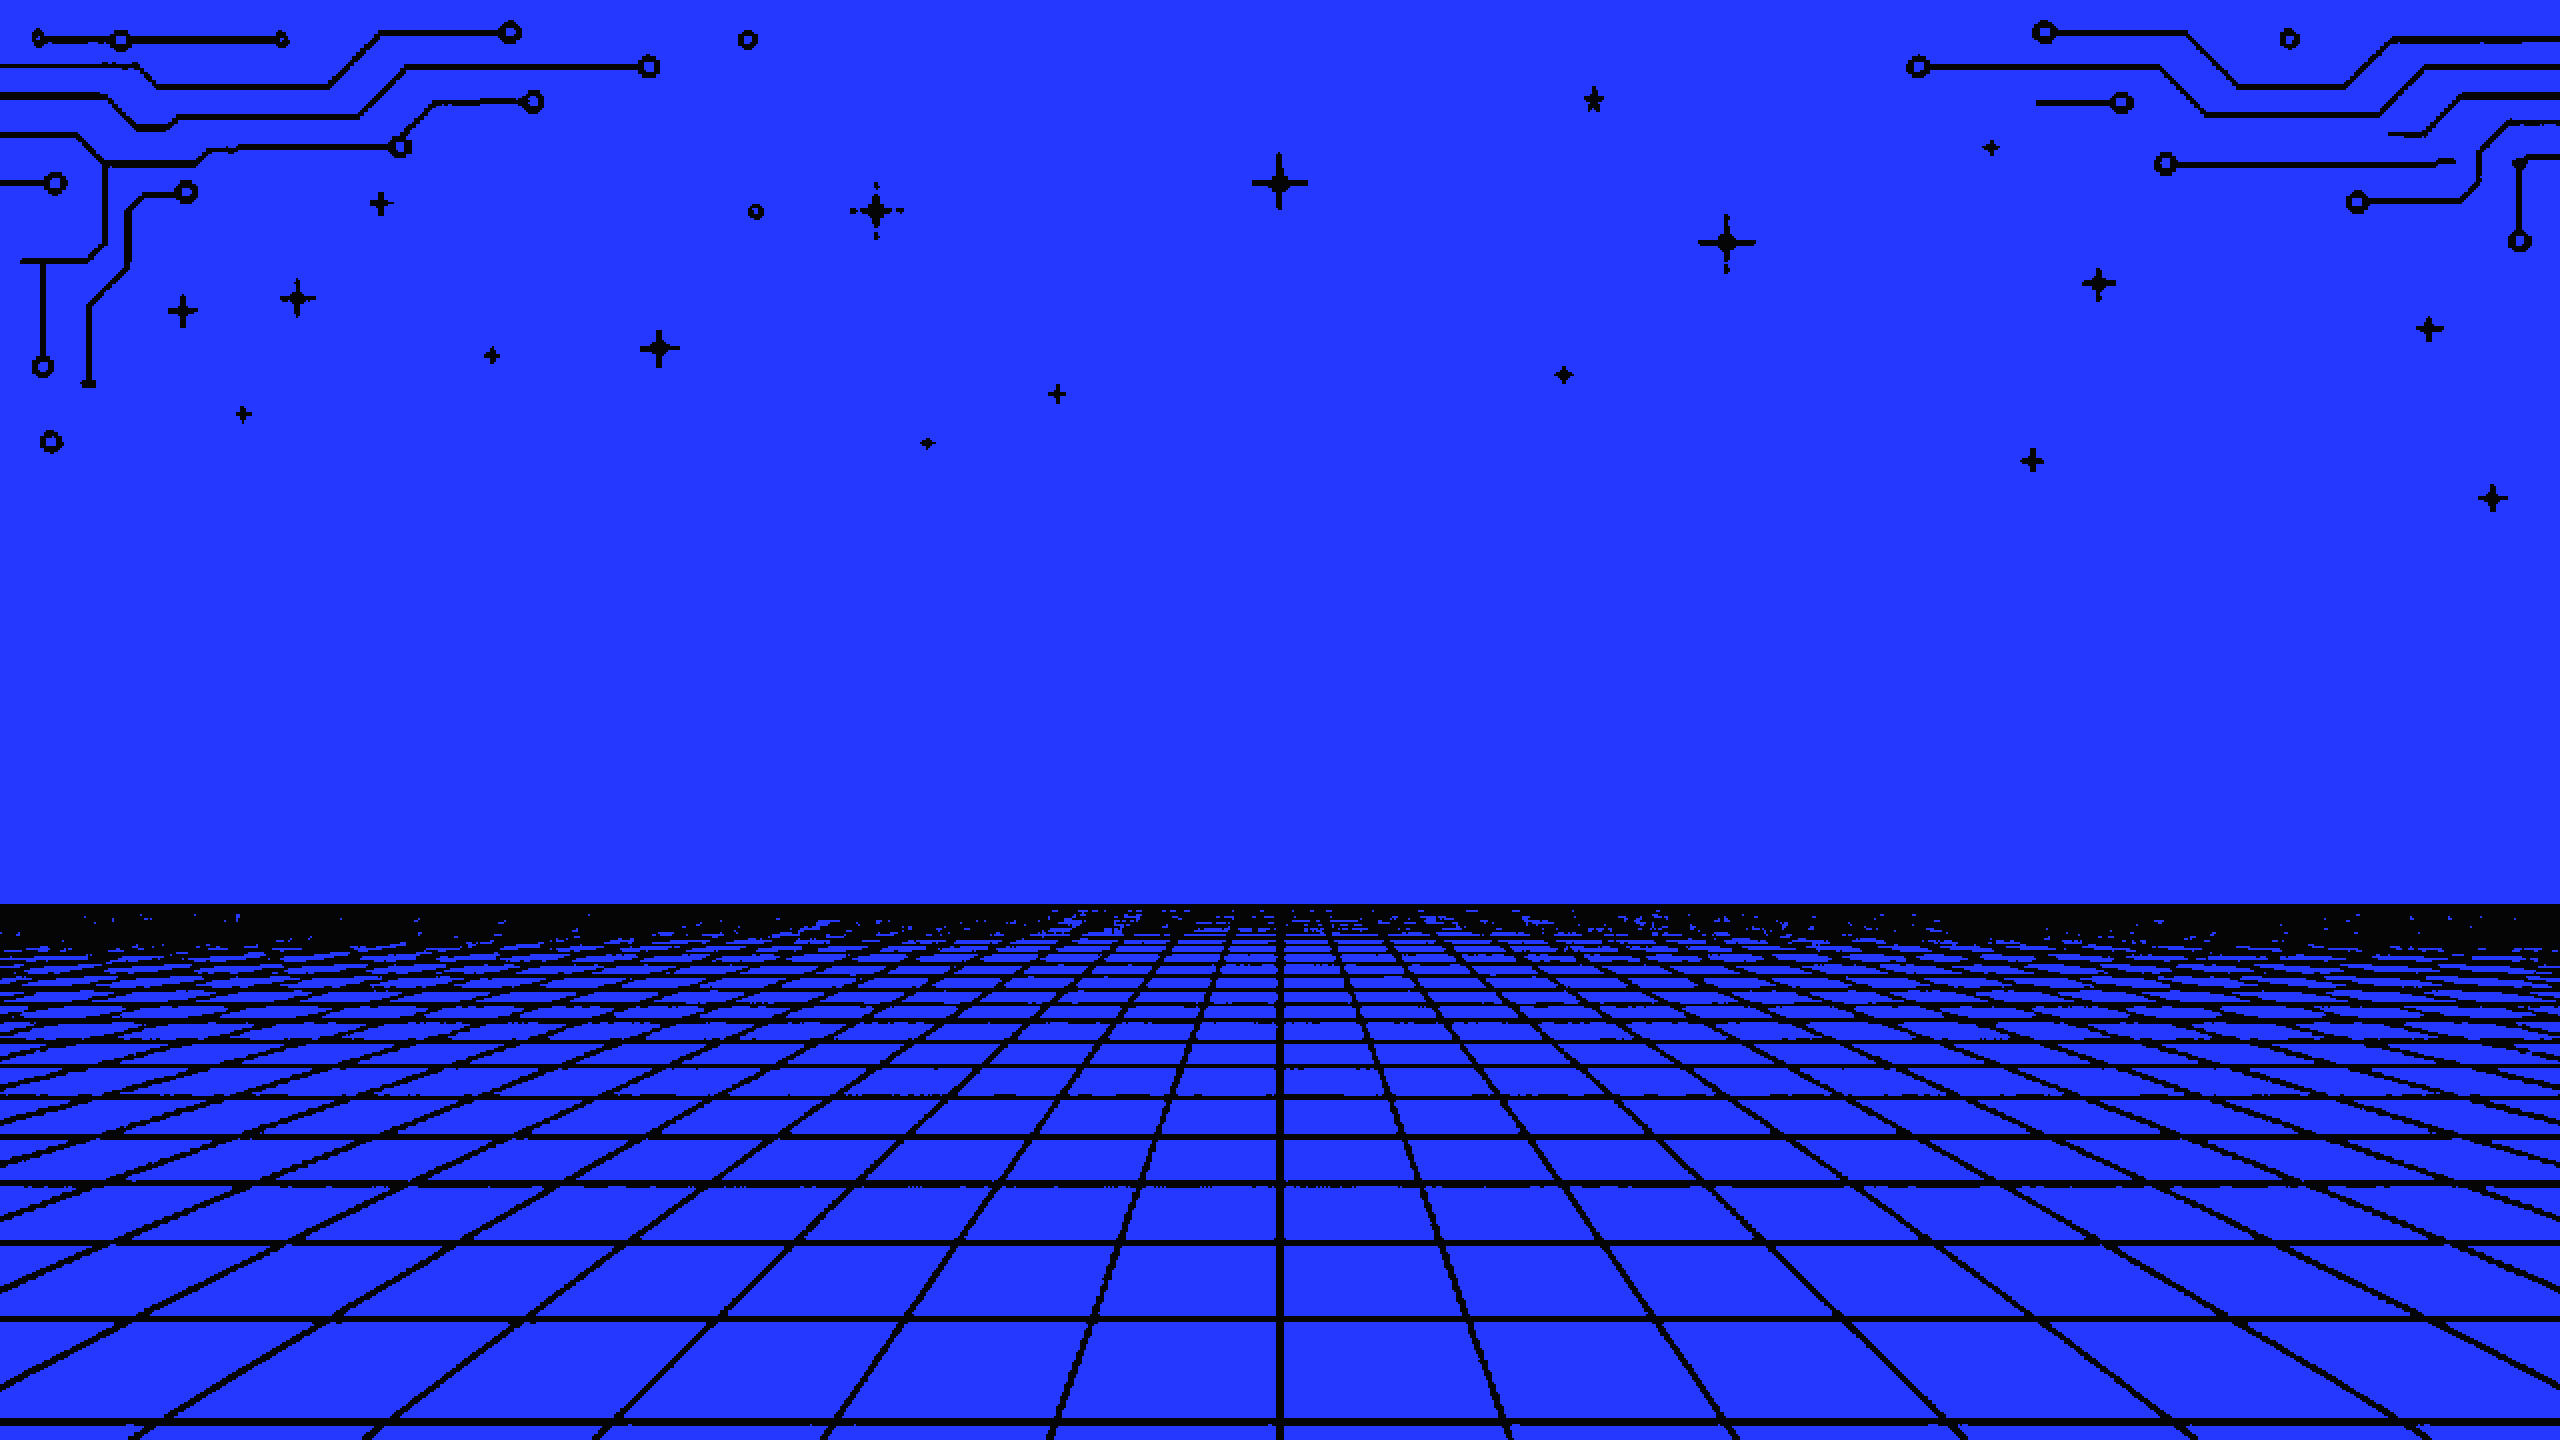
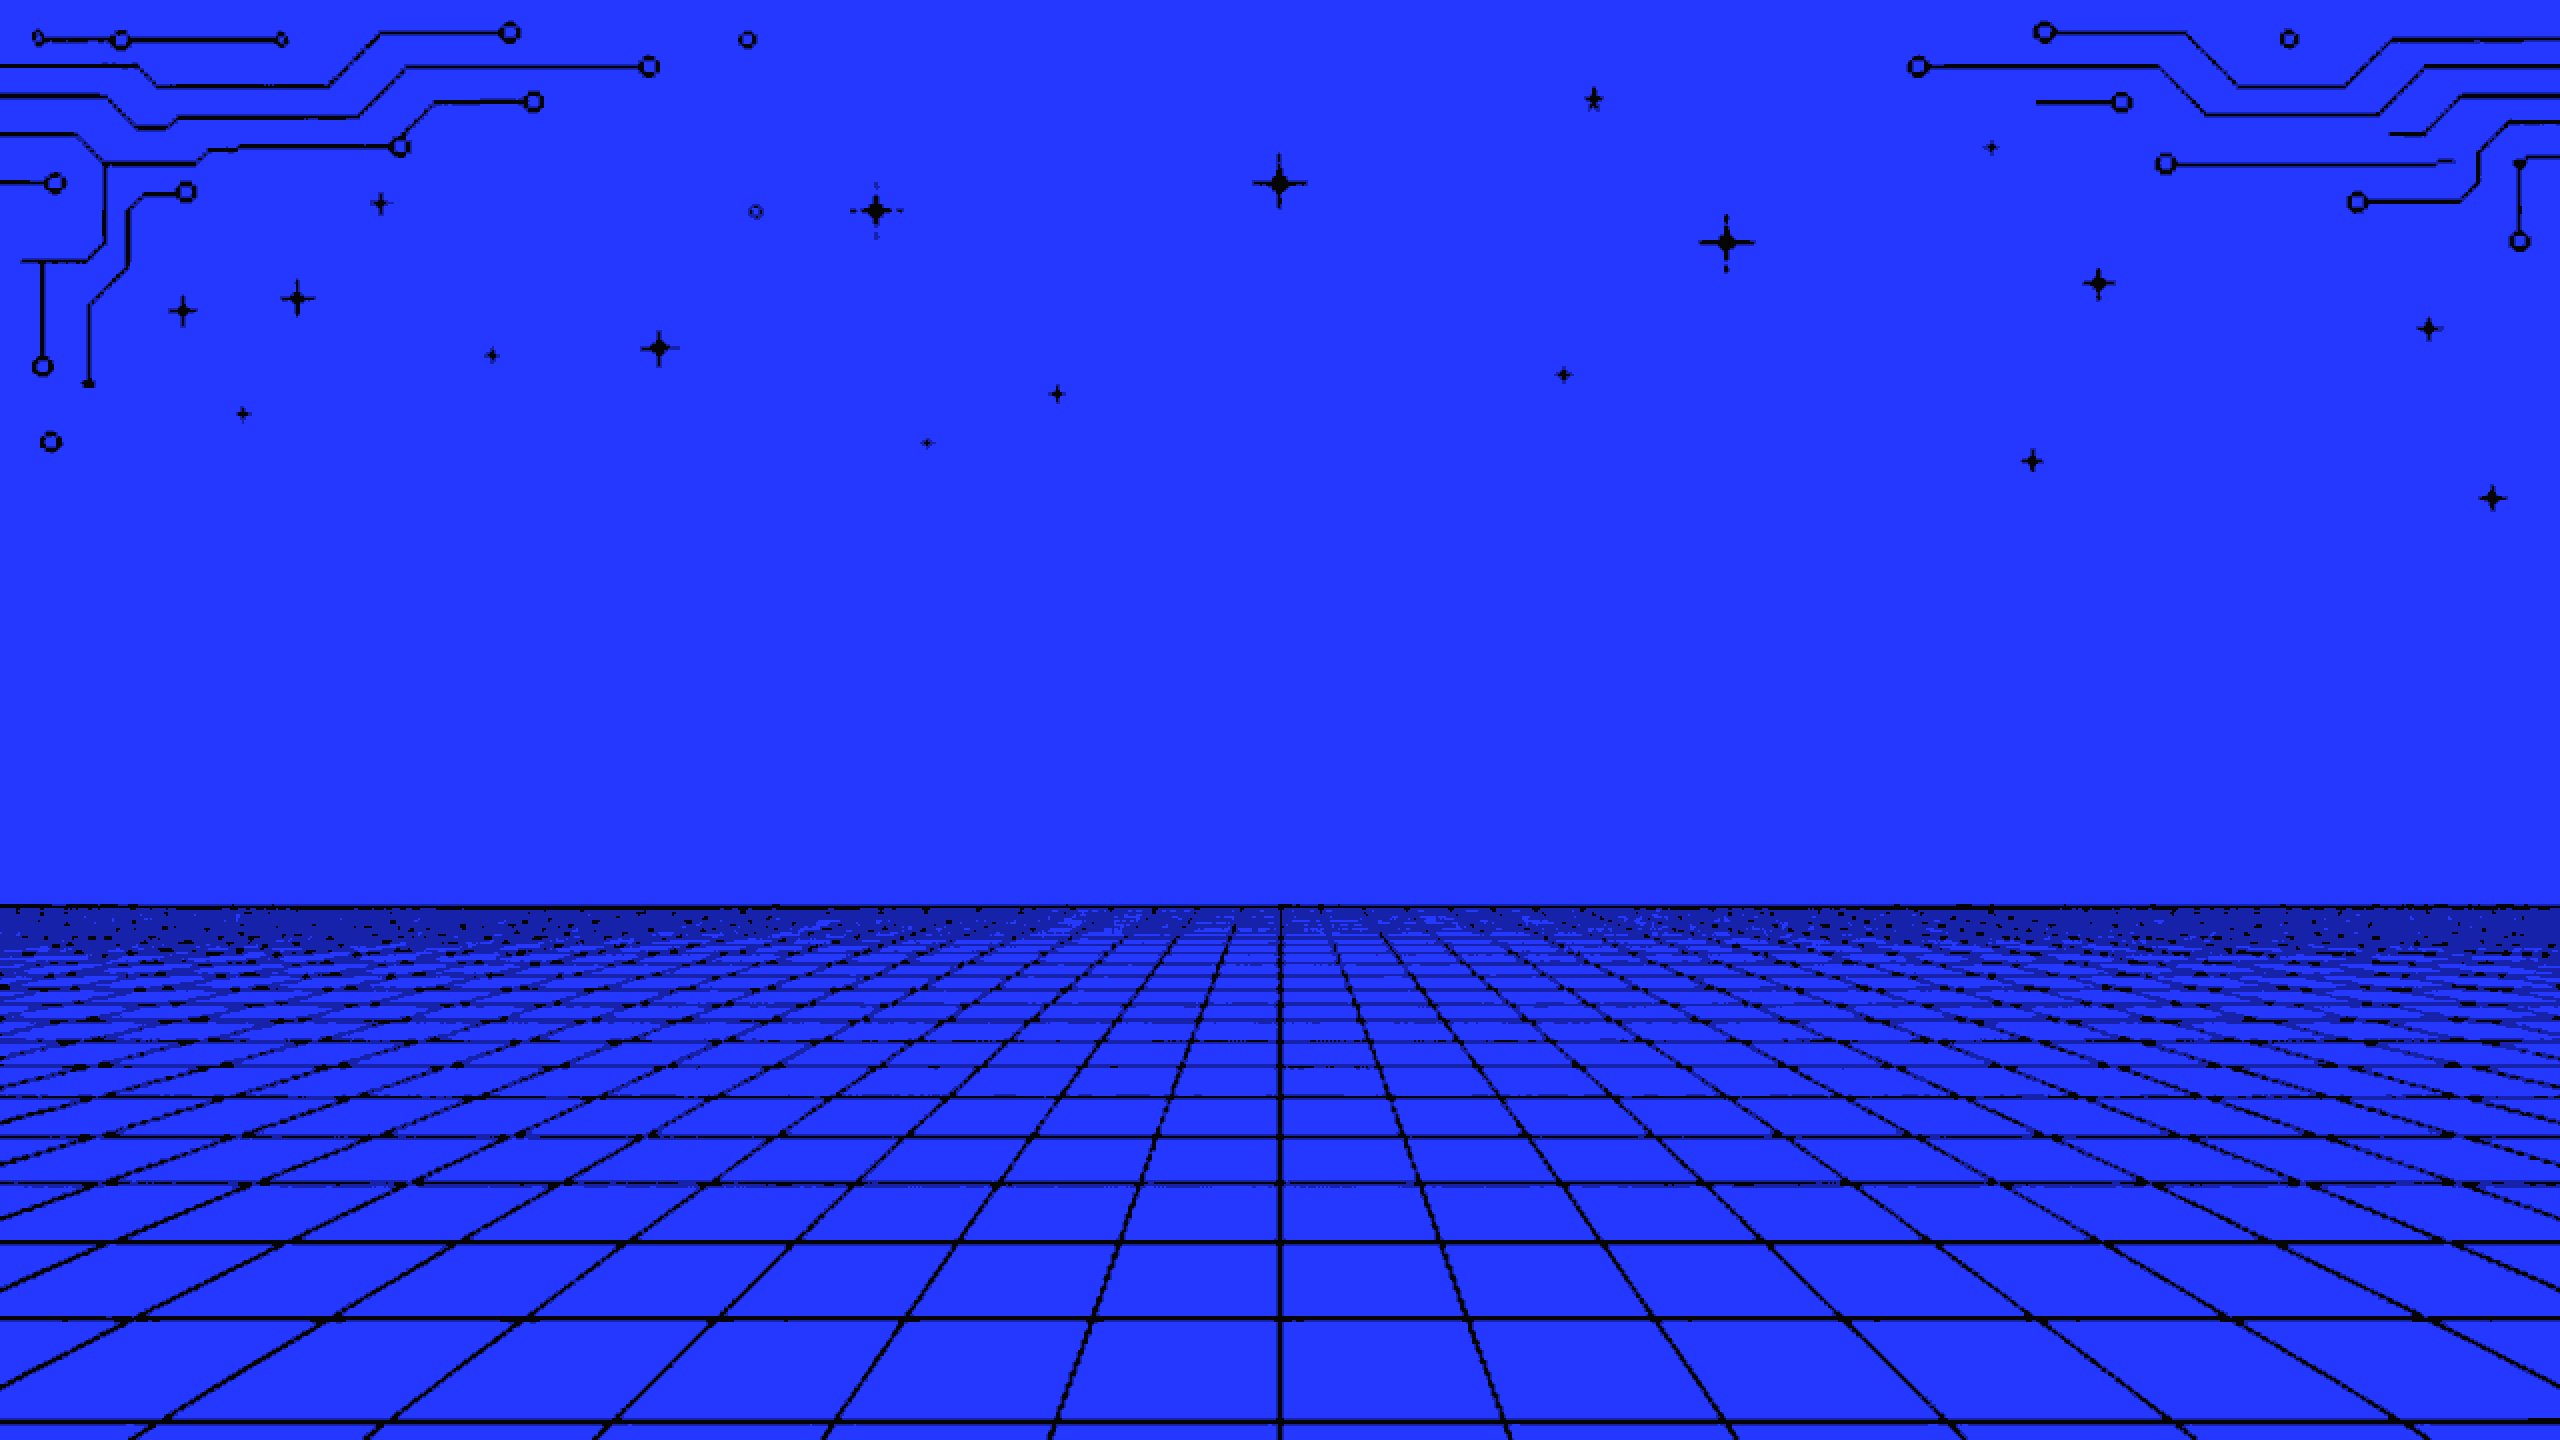
Arte: sprites pixel de objetos gamer y campos azules con matiz profundo

diff --git a/scripts/build-art-layers.py b/scripts/build-art-layers.py
@@ -26,6 +26,10 @@ OUT = ROOT / "public" / "art" / "cromo"
 BLUE = (36, 56, 255)
 BLACK = (5, 5, 6)
 RED = (255, 42, 31)
+# Secondary tones keep large art calm: deep red for shading/large masses, deep blue
+# for engraved mid-tones instead of hard black hairlines. Mirrors --gm-red-deep / --gm-blue-deep.
+RED_DEEP = (184, 35, 26)
+BLUE_DEEP = (22, 34, 170)
 
 # Nearest-neighbour 2x keeps every pixel in palette while letting browsers
 # downscale smoothly on standard screens and stay crisp on retina screens.
@@ -49,10 +53,13 @@ def classify(image: Image.Image, allow_red: bool, denoise: bool = True, blue_flo
 
 
 def paint(labels: np.ndarray) -> np.ndarray:
+    """0 = black, 1 = blue, 2 = red, 3 = deep red, 4 = deep blue."""
     out = np.zeros(labels.shape + (3,), dtype=np.uint8)
     out[labels == 0] = BLACK
     out[labels == 1] = BLUE
     out[labels == 2] = RED
+    out[labels == 3] = RED_DEEP
+    out[labels == 4] = BLUE_DEEP
     return out
 
 
@@ -93,7 +100,66 @@ def save(array: np.ndarray, name: str, scale: int = 1) -> None:
 
 def build_field(source: str, name: str) -> None:
     labels = classify(Image.open(SRC / source), allow_red=False, denoise=False, blue_floor=175)
+    rgb = np.asarray(Image.open(SRC / source).convert("RGB")).astype(np.int16)
+    r, b = rgb[..., 0], rgb[..., 2]
+    labels[(labels == 0) & (b > 110) & (b > r + 40)] = 4
     save(paint(labels), name, scale=UPSCALE)
+
+
+def largest_component(mask: np.ndarray) -> np.ndarray:
+    """Keep the biggest 8-connected region (drops slivers of neighbouring sprites)."""
+    joined = morph(mask, 5, grow=True)
+    seen = np.zeros_like(joined)
+    best: list[tuple[int, int]] = []
+    height, width = joined.shape
+    for y, x in zip(*np.nonzero(joined)):
+        if seen[y, x]:
+            continue
+        stack, region = [(y, x)], []
+        seen[y, x] = True
+        while stack:
+            cy, cx = stack.pop()
+            region.append((cy, cx))
+            for ny in (cy - 1, cy, cy + 1):
+                for nx in (cx - 1, cx, cx + 1):
+                    if 0 <= ny < height and 0 <= nx < width and joined[ny, nx] and not seen[ny, nx]:
+                        seen[ny, nx] = True
+                        stack.append((ny, nx))
+        if len(region) > len(best):
+            best = region
+    keep = np.zeros_like(joined)
+    ys, xs = zip(*best)
+    keep[list(ys), list(xs)] = True
+    return keep & mask
+
+
+def build_sprites(source: str, names: list[str | None], grid: int = 3) -> None:
+    """Cut a grid sprite sheet into isolated transparent objects (red, deep red, black)."""
+    image = Image.open(SRC / source).filter(ImageFilter.MedianFilter(3))
+    rgb = np.asarray(image.convert("RGB")).astype(np.int16)
+    r, g, b = rgb[..., 0], rgb[..., 1], rgb[..., 2]
+    labels = np.zeros(r.shape, dtype=np.uint8)
+    labels[(b > 120) & (b > r + 40)] = 1
+    labels[(r > 90) & (r > g + 50) & (r > b + 40)] = 3
+    labels[(r > 200) & (r > g + 80) & (r > b + 60)] = 2
+    solid = fill_holes(labels != 1)
+    height, width = labels.shape
+    for index, name in enumerate(names):
+        if name is None:
+            continue
+        row, col = divmod(index, grid)
+        y0, y1 = row * height // grid, (row + 1) * height // grid
+        x0, x1 = col * width // grid, (col + 1) * width // grid
+        cell = largest_component(solid[y0:y1, x0:x1])
+        ys, xs = np.nonzero(cell)
+        top, bottom = ys.min() + y0, ys.max() + y0 + 1
+        left, right = xs.min() + x0, xs.max() + x0 + 1
+        sprite = np.zeros((bottom - top, right - left, 4), dtype=np.uint8)
+        sprite[..., :3] = paint(labels[top:bottom, left:right])
+        keep = np.zeros_like(solid)
+        keep[y0:y1, x0:x1] = cell
+        sprite[..., 3] = np.where(keep[top:bottom, left:right], 255, 0)
+        save(sprite, f"sprite-{name}", scale=UPSCALE)
 
 
 def build_panel(source: str, name: str) -> None:
@@ -138,6 +204,16 @@ def main() -> None:
     build_field("gm-raw-field-floor-desktop.jpg", "field-floor-desktop")
     build_split_panel("gm-raw-hero-consoles.jpg", "panel-consoles", shadow_reach=45, thick=27, open_field=True)
     build_split_panel("gm-raw-ia-chip.jpg", "panel-chip", rear_fill=0)
+    build_sprites("gm-raw-sprites-a.jpg", [
+        "cartridge", "gamepad", "joystick",
+        "handheld", "side-controller", "headset",
+        "mouse", "memory-card", "keycap",
+    ])
+    build_sprites("gm-raw-sprites-b.jpg", [
+        "remote", None, "tv",
+        "chip", "headphones", "phone",
+        "clapperboard", "console-tower", "heart",
+    ])
 
 
 if __name__ == "__main__":
